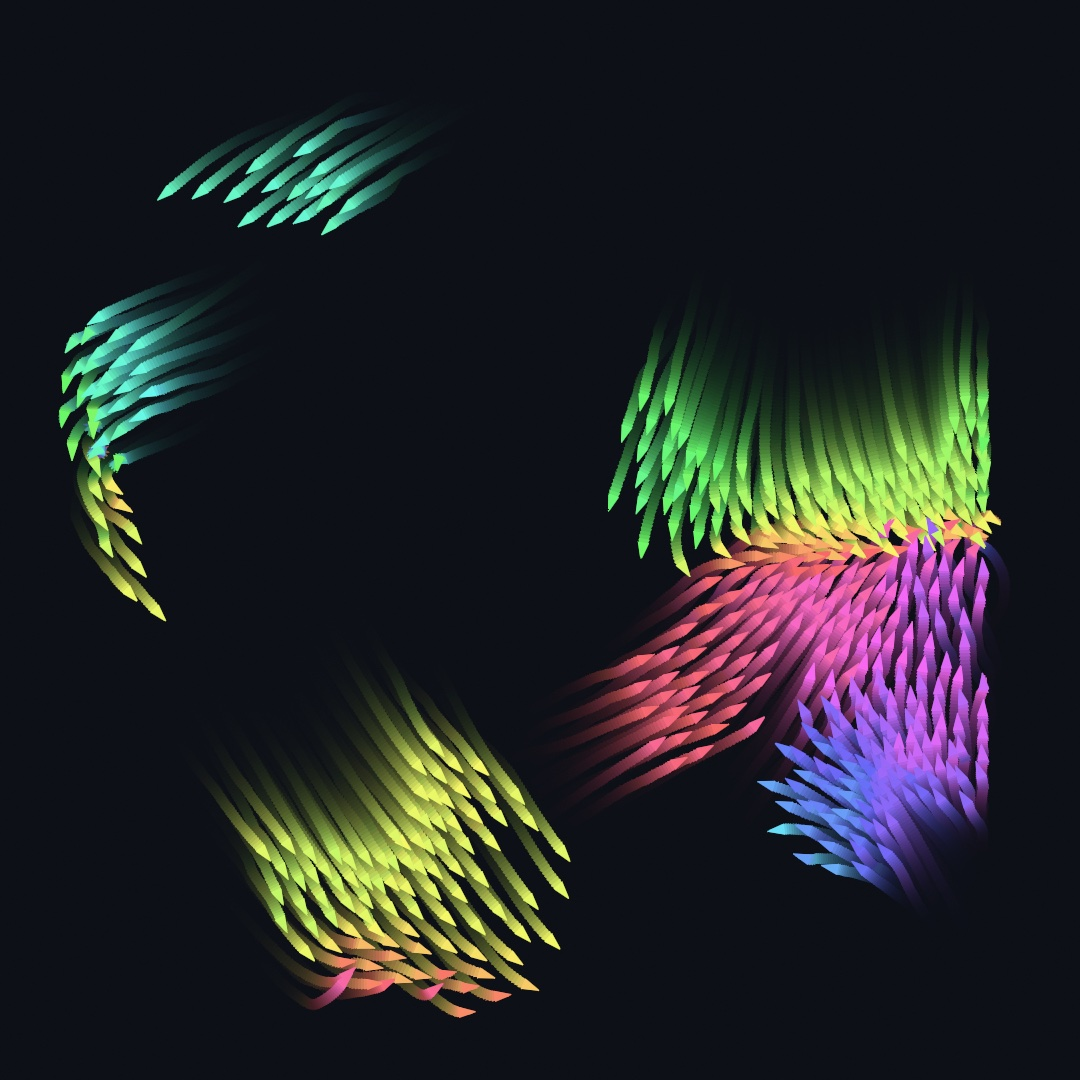
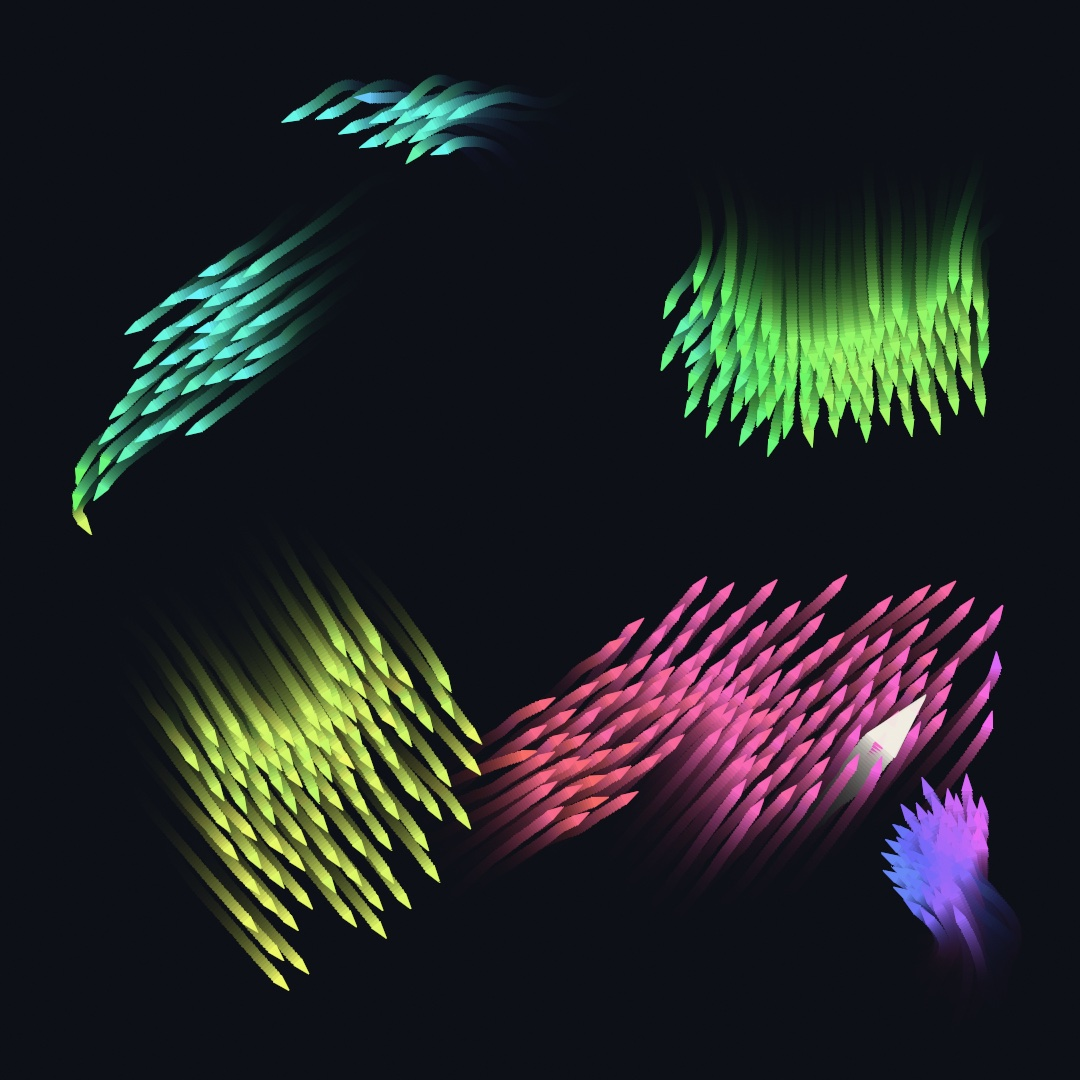
Chapter 12's living flock carries its predator. The finished sketch adds one Vehicle that pursues the flock's first boid, a little slower than the boids so it gains only on turns, drawn last, large and pale, with the chapter's own drawVehicle; the flock never flees it, which the chapter makes a teac
Claude-Session: https://claude.ai/code/session_01WqLtBAH3GLezrn1E1FY2W7

diff --git a/Guide/Figures/12-FlocksAndSwarms/Flock.swift b/Guide/Figures/12-FlocksAndSwarms/Flock.swift
@@ -1,9 +1,11 @@
-// figure: frame=520
+// figure: frame=480
 //
-// Guide payoff (Chapter 12): a living flock, colored by heading. Every boid
-// follows the same three local rules over its neighbors, no leader anywhere,
-// and the bands of color are sub-flocks that have agreed on a direction.
-// Trails come from fading the canvas instead of clearing it.
+// Guide payoff (Chapter 12): a living flock, colored by heading, with one
+// predator on its tail. Every boid follows the same three local rules over its
+// neighbors, no leader anywhere, and the bands of color are sub-flocks that
+// have agreed on a direction. The predator is a Vehicle pursuing the first
+// boid; the flock never sees it. Trails come from fading the canvas instead of
+// clearing it.
 import Ollin
 
 final class Flock: Sketch {
@@ -12,6 +14,7 @@ final class Flock: Sketch {
     @Param("Cohesion", 0...3) var cohesion = 0.9
 
     var flock: Boids?
+    var predator: Vehicle?
 
     override func setup() {
         background(Color(hex: 0x0D1017))
@@ -20,14 +23,21 @@ final class Flock: Sketch {
                       maxSpeed: 3.6 * scale, maxForce: 0.15 * scale,
                       perceptionRadius: 60 * scale, separationRadius: 24 * scale,
                       margin: 90 * scale)
+        predator = Vehicle(at: bounds.center,
+                           maxSpeed: 3.2 * scale, maxForce: 0.1 * scale)
     }
 
     override func draw() {
-        guard let flock else { return }
+        guard let flock, let predator else { return }
         flock.separation = separation
         flock.alignment = alignment
         flock.cohesion = cohesion
         flock.step()
+
+        // The predator hunts the first boid, aiming where it will be.
+        predator.applyForce(predator.pursue(flock.positions[0],
+                                            velocity: flock.velocities[0]))
+        predator.step()
 
         // Fade the last frame a little instead of erasing it: trails.
         noStroke()
@@ -47,5 +57,8 @@ final class Flock: Sketch {
                              Vector2(-size * 0.65, -size * 0.5))
             }
         }
+
+        fill(Color(hex: 0xF2EEE4).withAlpha(0.9))
+        drawVehicle(predator, size: 40 * scale)
     }
 }

diff --git a/Guide/12-FlocksAndSwarms.md b/Guide/12-FlocksAndSwarms.md
@@ -4,9 +4,9 @@
 
 # 12. Flocks and swarms
 
-<img src="Images/12-FlocksAndSwarms/Flock.jpg" alt="Hundreds of small triangles sweeping across a dark canvas in bands of color, each band a sub-flock sharing one direction, with soft trails fading behind them" width="560">
+<img src="Images/12-FlocksAndSwarms/Flock.jpg" alt="Hundreds of small triangles sweeping across a dark canvas in bands of color, each band a sub-flock sharing one direction, with soft trails fading behind them, and one large pale triangle riding inside the coral band" width="560">
 
-Give a few hundred creatures something to want, let each watch only its neighbors, and a flock appears with nobody in charge. You build one creature that chases, stops, and roams, then give every creature the same three rules about its neighbors. The flock above leaves trails that fade instead of being erased. Other crowds run by a rule come after it: chases that draw curves, walkers that make room, and fireflies falling into step.
+Give a few hundred creatures something to want, let each watch only its neighbors, and a flock appears with nobody in charge. You build one creature that chases, stops, and roams, then give every creature the same three rules about its neighbors. The flock above leaves trails that fade instead of being erased. The pale shape inside it is one creature on its own, hunting a boid. Other crowds run by a rule come after it: chases that draw curves, walkers that make room, and fireflies falling into step.
 
 Before we start, one word about names. The field calls these creatures *autonomous agents*, a name from decades before "agent" came to mean software with a chat window. It is the name Daniel Shiffman's chapter on them carries. This guide will say creature, boid, and flock. *Boid* is Craig Reynolds' own word, from the flock he first animated in 1986.
 
@@ -151,7 +151,7 @@ Two behaviors are stacked here, and that is the point of forces that compose. `w
 
 The trails are the `noClear` at work. `background(...)` runs once, in `setup()`, to lay the ground. Then every frame paints the same color over the whole canvas at one percent opacity. Each old triangle fades a little further, and the string of them behind a creature reads as a tail that lasts ten seconds or so. The alpha is the trail's length. Raise it to `0.16` and the tails shorten to a fraction of a second. Lower it to `0.003` and they last half a minute. The finished sketch uses this same trick, and [Chapter 19](19-LayersAndEffects.md) takes the persistent canvas much further, into accumulation and long-exposure looks.
 
-The rest of the behavior shelf works the same way, so a list will do. `pursue` and `evade` chase and dodge a *moving* target. They aim where it will be rather than where it is, the way a cat cuts off a mouse. `follow(path:)` keeps a creature inside a corridor along a polyline, correcting only when it strays. `follow(_ field:)` follows the flow fields coming in [Chapter 14](14-FieldsAndFlow.md). `separate(from:)` keeps personal space within a group, and the flock's first rule below is built on it. The `Motion/Steering` example runs most of the shelf in one scene, and the [steering reference](../Docs/Generators/Steering.md) has every argument.
+The rest of the behavior shelf works the same way, so a list will do. `pursue` and `evade` chase and dodge a *moving* target. They aim where it will be rather than where it is, the way a cat cuts off a mouse. The finished sketch's predator is one `pursue`. `follow(path:)` keeps a creature inside a corridor along a polyline, correcting only when it strays. `follow(_ field:)` follows the flow fields coming in [Chapter 14](14-FieldsAndFlow.md). `separate(from:)` keeps personal space within a group, and the flock's first rule below is built on it. The `Motion/Steering` example runs most of the shelf in one scene, and the [steering reference](../Docs/Generators/Steering.md) has every argument.
 
 ## Three rules make a flock: separation, alignment, and cohesion
 
@@ -237,7 +237,7 @@ Passing the point's *index* rather than its position leaves the point itself out
 
 ## Putting it together: the living flock
 
-The sketch at the top of the chapter composes three of the steps. The assembled flock runs with its three rule weights on parameters, and the trails fade the way the wanderers' did. Make `MySketches/Flock.swift`:
+The sketch at the top of the chapter composes four of the steps. The assembled flock runs with its three rule weights on parameters, and the trails fade the way the wanderers' did. One `Vehicle` from the start of the chapter hunts through it with `pursue`. Make `MySketches/Flock.swift`:
 
 ```swift
 import Ollin
@@ -248,6 +248,7 @@ final class Flock: Sketch {
     @Param("Cohesion", 0...3) var cohesion = 0.9
 
     var flock: Boids?
+    var predator: Vehicle?
 
     override func setup() {
         background(Color(hex: 0x0D1017))
@@ -256,14 +257,21 @@ final class Flock: Sketch {
                       maxSpeed: 3.6 * scale, maxForce: 0.15 * scale,
                       perceptionRadius: 60 * scale, separationRadius: 24 * scale,
                       margin: 90 * scale)
+        predator = Vehicle(at: bounds.center,
+                           maxSpeed: 3.2 * scale, maxForce: 0.1 * scale)
     }
 
     override func draw() {
-        guard let flock else { return }
+        guard let flock, let predator else { return }
         flock.separation = separation
         flock.alignment = alignment
         flock.cohesion = cohesion
         flock.step()
+
+        // The predator hunts the first boid, aiming where it will be.
+        predator.applyForce(predator.pursue(flock.positions[0],
+                                            velocity: flock.velocities[0]))
+        predator.step()
 
         // Fade the last frame a little instead of erasing it: trails.
         noStroke()
@@ -283,21 +291,26 @@ final class Flock: Sketch {
                              Vector2(-size * 0.65, -size * 0.5))
             }
         }
+
+        fill(Color(hex: 0xF2EEE4).withAlpha(0.9))
+        drawVehicle(predator, size: 40 * scale)
     }
 }
 ```
 
-Each boid is a triangle rotated to its heading with [Chapter 6](06-GridsAndRepetition.md)'s transforms. `drawTriangle` takes its three corners, drawn here around the origin so `rotate` turns the whole shape. `.pi` is half a turn, so the hue's sum runs `0...tau` around the wheel. Its hue comes *from* the heading, so color is information. Boids flying the same way share a color. Every band of color in the image is a sub-flock that has agreed on a direction. The fade is `0.16` here where the wanderers used `0.01`. So the tails are short, and the bands read as motion rather than as a drawing of where the flock has been. The flock's speeds and radii are scaled by `scale`, [Chapter 1](01-HelloOllin.md)'s factor, the shorter canvas edge over 1000, so they follow the canvas size. Here is a few seconds of it organizing itself from a random scatter:
+Each boid is a triangle rotated to its heading with [Chapter 6](06-GridsAndRepetition.md)'s transforms. `drawTriangle` takes its three corners, drawn here around the origin so `rotate` turns the whole shape. `.pi` is half a turn, so the hue's sum runs `0...tau` around the wheel. Its hue comes *from* the heading, so color is information. Boids flying the same way share a color. Every band of color in the image is a sub-flock that has agreed on a direction. The fade is `0.16` here where the wanderers used `0.01`. So the tails are short, and the bands read as motion rather than as a drawing of where the flock has been. The flock's speeds and radii are scaled by `scale`, [Chapter 1](01-HelloOllin.md)'s factor, the shorter canvas edge over 1000, so they follow the canvas size.
+
+The pale triangle is the predator, one `Vehicle` with a single behavior. Each frame it applies `pursue` on the first boid, fed that boid's position and velocity, so it aims where the boid will be. It is a little slower than a boid, so it gains only when the band turns and it can cut the corner. The flock never flees it. The three rules look at neighbors and nothing else, so no boid knows the predator exists, the way no boid knows the flock does. Here is a few seconds of the flock alone, organizing itself from a random scatter:
 
 <img src="Images/12-FlocksAndSwarms/FlockMotion.gif" alt="An animated flock of colored triangles starting scattered and gathering into swirling sub-flocks, each group sharing a color that shifts as it turns" width="480">
 
-> **Swift note.** `guard let flock else { return }` is the `guard let` [Chapter 9](09-Pictures.md) used, unwrapping the optional into a constant of the same name. The flock is a `var` rather than a `let` handle because `setup()` fills it in after the sketch is made.
+> **Swift note.** `guard let flock, let predator else { return }` is the `guard let` [Chapter 9](09-Pictures.md) used, unwrapping each optional into a constant of the same name, two at once here. Both are `var` rather than `let` handles because `setup()` fills them in after the sketch is made, once `bounds` and `scale` are known.
 
 Then make it yours:
 
 - Drag the three parameters while it runs. Somewhere around high cohesion and low separation the flock balls up into a swirling knot. High separation with low everything else dissolves it into a polite crowd. Find the edge between flock and crowd.
 - Give the flock somewhere to go. Setting `flock.field = curlField(scale: 0.003)` with a small `flock.fieldStrength` sends the whole society drifting along an invisible current (a preview of [Chapter 14](14-FieldsAndFlow.md)).
-- Add a predator, one `Vehicle` that pursues the flock's first boid with `creature.pursue(flock.positions[0], velocity: flock.velocities[0])`, drawn large and pale. All the forces compose.
+- Give the predator a little `wander` beside its `pursue`, weighted small, so it loses the trail now and then and finds it again. All the forces compose.
 - Swap the triangle for a short line along the velocity, and the sketch stops reading as creatures and starts reading as brushstrokes.
 
 A flock is motion, so keep it as a few seconds of video:
